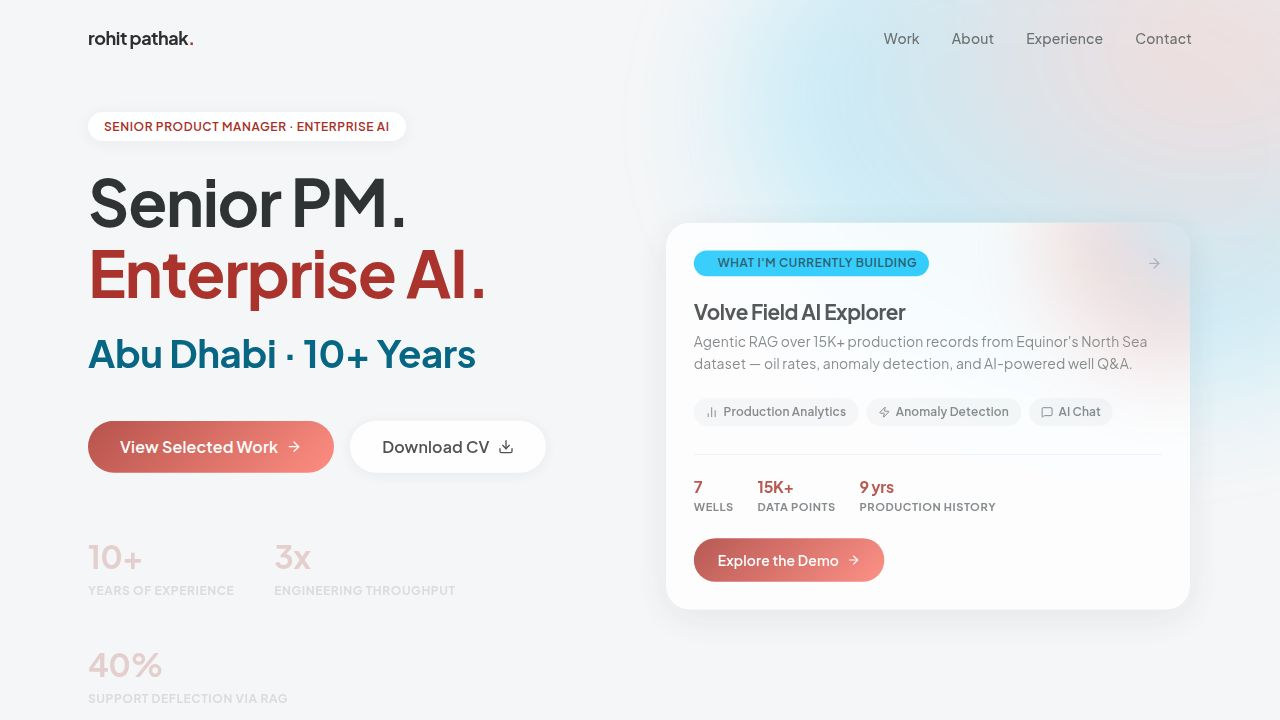
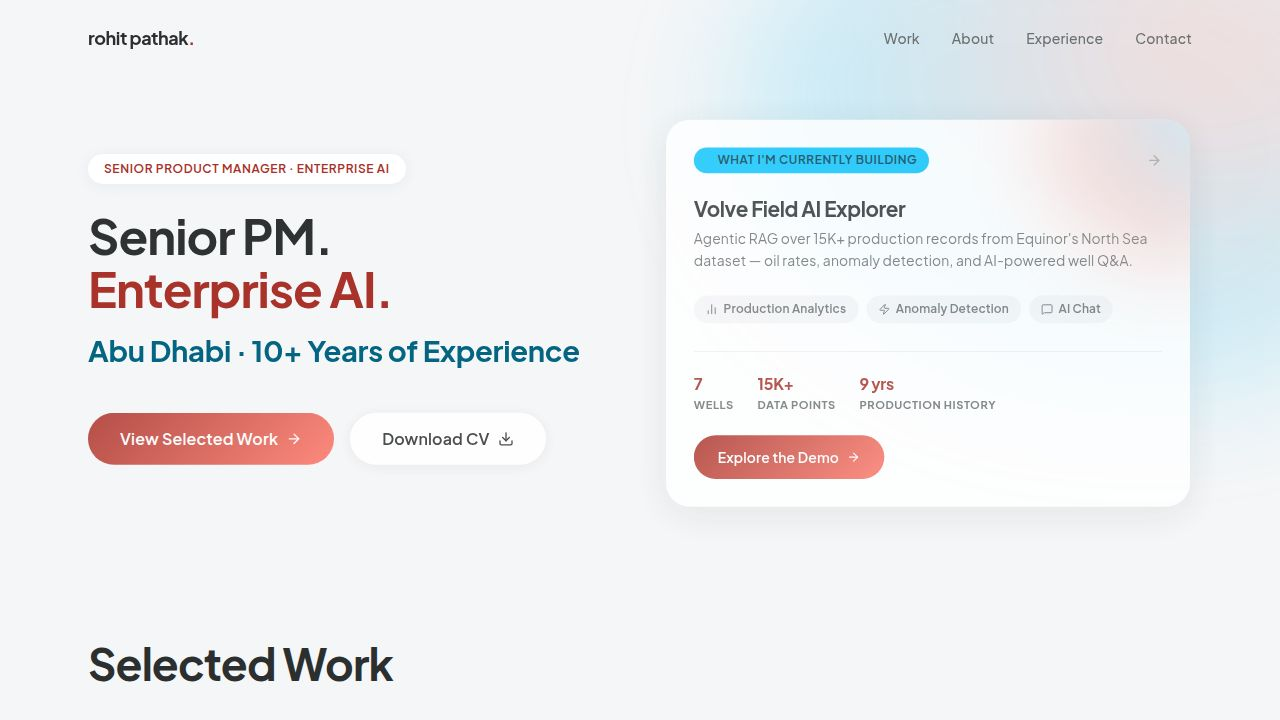
Adjust spacing between sections throughout the website
Reduce vertical padding on About, Contact, Education, Experience, and Skills sections from 6rem to 4rem. Also, decrease the top padding of the featured work header and adjust its bottom margin.

Replit-Commit-Author: Agent
Replit-Commit-Session-Id: 4cf57e2c-8865-49d6-8813-4c01c2f980c4
Replit-Commit-Checkpoint-Type: full_checkpoint
Replit-Commit-Event-Id: 2d20fbd9-1ff1-483f-96a1-08237b5f1180
Replit-Commit-Screenshot-Url: https://storage.googleapis.com/screenshot-production-us-central1/50377917-ed78-444a-b143-b4c062eee331/4cf57e2c-8865-49d6-8813-4c01c2f980c4/iiqkY3t
Replit-Helium-Checkpoint-Created: true

diff --git a/client/src/components/sections/featured-work.tsx b/client/src/components/sections/featured-work.tsx
@@ -30,7 +30,7 @@ const projects = [
 
 export default function FeaturedWork() {
   return (
-    <section id="work" className="surface-base" style={{ paddingBottom: '6rem' }}>
+    <section id="work" className="surface-base" style={{ paddingBottom: '4rem' }}>
       <div className="container px-6 mx-auto max-w-6xl">
 
         {/* Section header */}
@@ -39,7 +39,7 @@ export default function FeaturedWork() {
           whileInView={{ opacity: 1, y: 0 }}
           viewport={{ once: true }}
           transition={{ duration: 0.5 }}
-          className="mb-16 pt-12"
+          className="mb-12 pt-8"
         >
           <h2
             className="font-bold"

diff --git a/client/src/components/sections/about.tsx b/client/src/components/sections/about.tsx
@@ -15,7 +15,7 @@ const skills = [
 
 export default function About() {
   return (
-    <section id="about" style={{ background: 'var(--lf-surface-container-low, #eff1f2)', padding: '6rem 0' }}>
+    <section id="about" style={{ background: 'var(--lf-surface-container-low, #eff1f2)', padding: '4rem 0' }}>
       <div className="container px-6 mx-auto max-w-6xl">
         <div className="grid grid-cols-1 lg:grid-cols-2 gap-16 items-start">
 

diff --git a/client/src/components/sections/contact.tsx b/client/src/components/sections/contact.tsx
@@ -32,7 +32,7 @@ export default function Contact() {
   return (
     <section
       id="contact"
-      style={{ background: 'var(--lf-surface-container-low, #eff1f2)', padding: '6rem 0' }}
+      style={{ background: 'var(--lf-surface-container-low, #eff1f2)', padding: '4rem 0' }}
     >
       <div className="container px-6 mx-auto max-w-6xl">
         <motion.div

diff --git a/client/src/components/sections/education.tsx b/client/src/components/sections/education.tsx
@@ -3,7 +3,7 @@ import { GraduationCap, Award } from "lucide-react";
 
 export default function Education() {
   return (
-    <section className="py-24 bg-background">
+    <section className="py-16 bg-background">
       <div className="container px-6 mx-auto">
         <div className="grid grid-cols-1 md:grid-cols-2 gap-12">
           {/* Education */}

diff --git a/client/src/components/sections/experience.tsx b/client/src/components/sections/experience.tsx
@@ -42,7 +42,7 @@ const experiences = [
 
 export default function Experience() {
   return (
-    <section id="experience" style={{ background: 'var(--lf-surface, #f5f6f7)', padding: '6rem 0' }}>
+    <section id="experience" style={{ background: 'var(--lf-surface, #f5f6f7)', padding: '4rem 0' }}>
       <div className="container px-6 mx-auto max-w-6xl">
         <motion.div
           initial={{ opacity: 0, y: 20 }}

diff --git a/client/src/components/sections/skills.tsx b/client/src/components/sections/skills.tsx
@@ -28,7 +28,7 @@ const skillCategories = [
 
 export default function Skills() {
   return (
-    <section id="skills" className="py-24 bg-secondary/20">
+    <section id="skills" className="py-16 bg-secondary/20">
       <div className="container px-6 mx-auto">
         <motion.div
           initial={{ opacity: 0, y: 20 }}